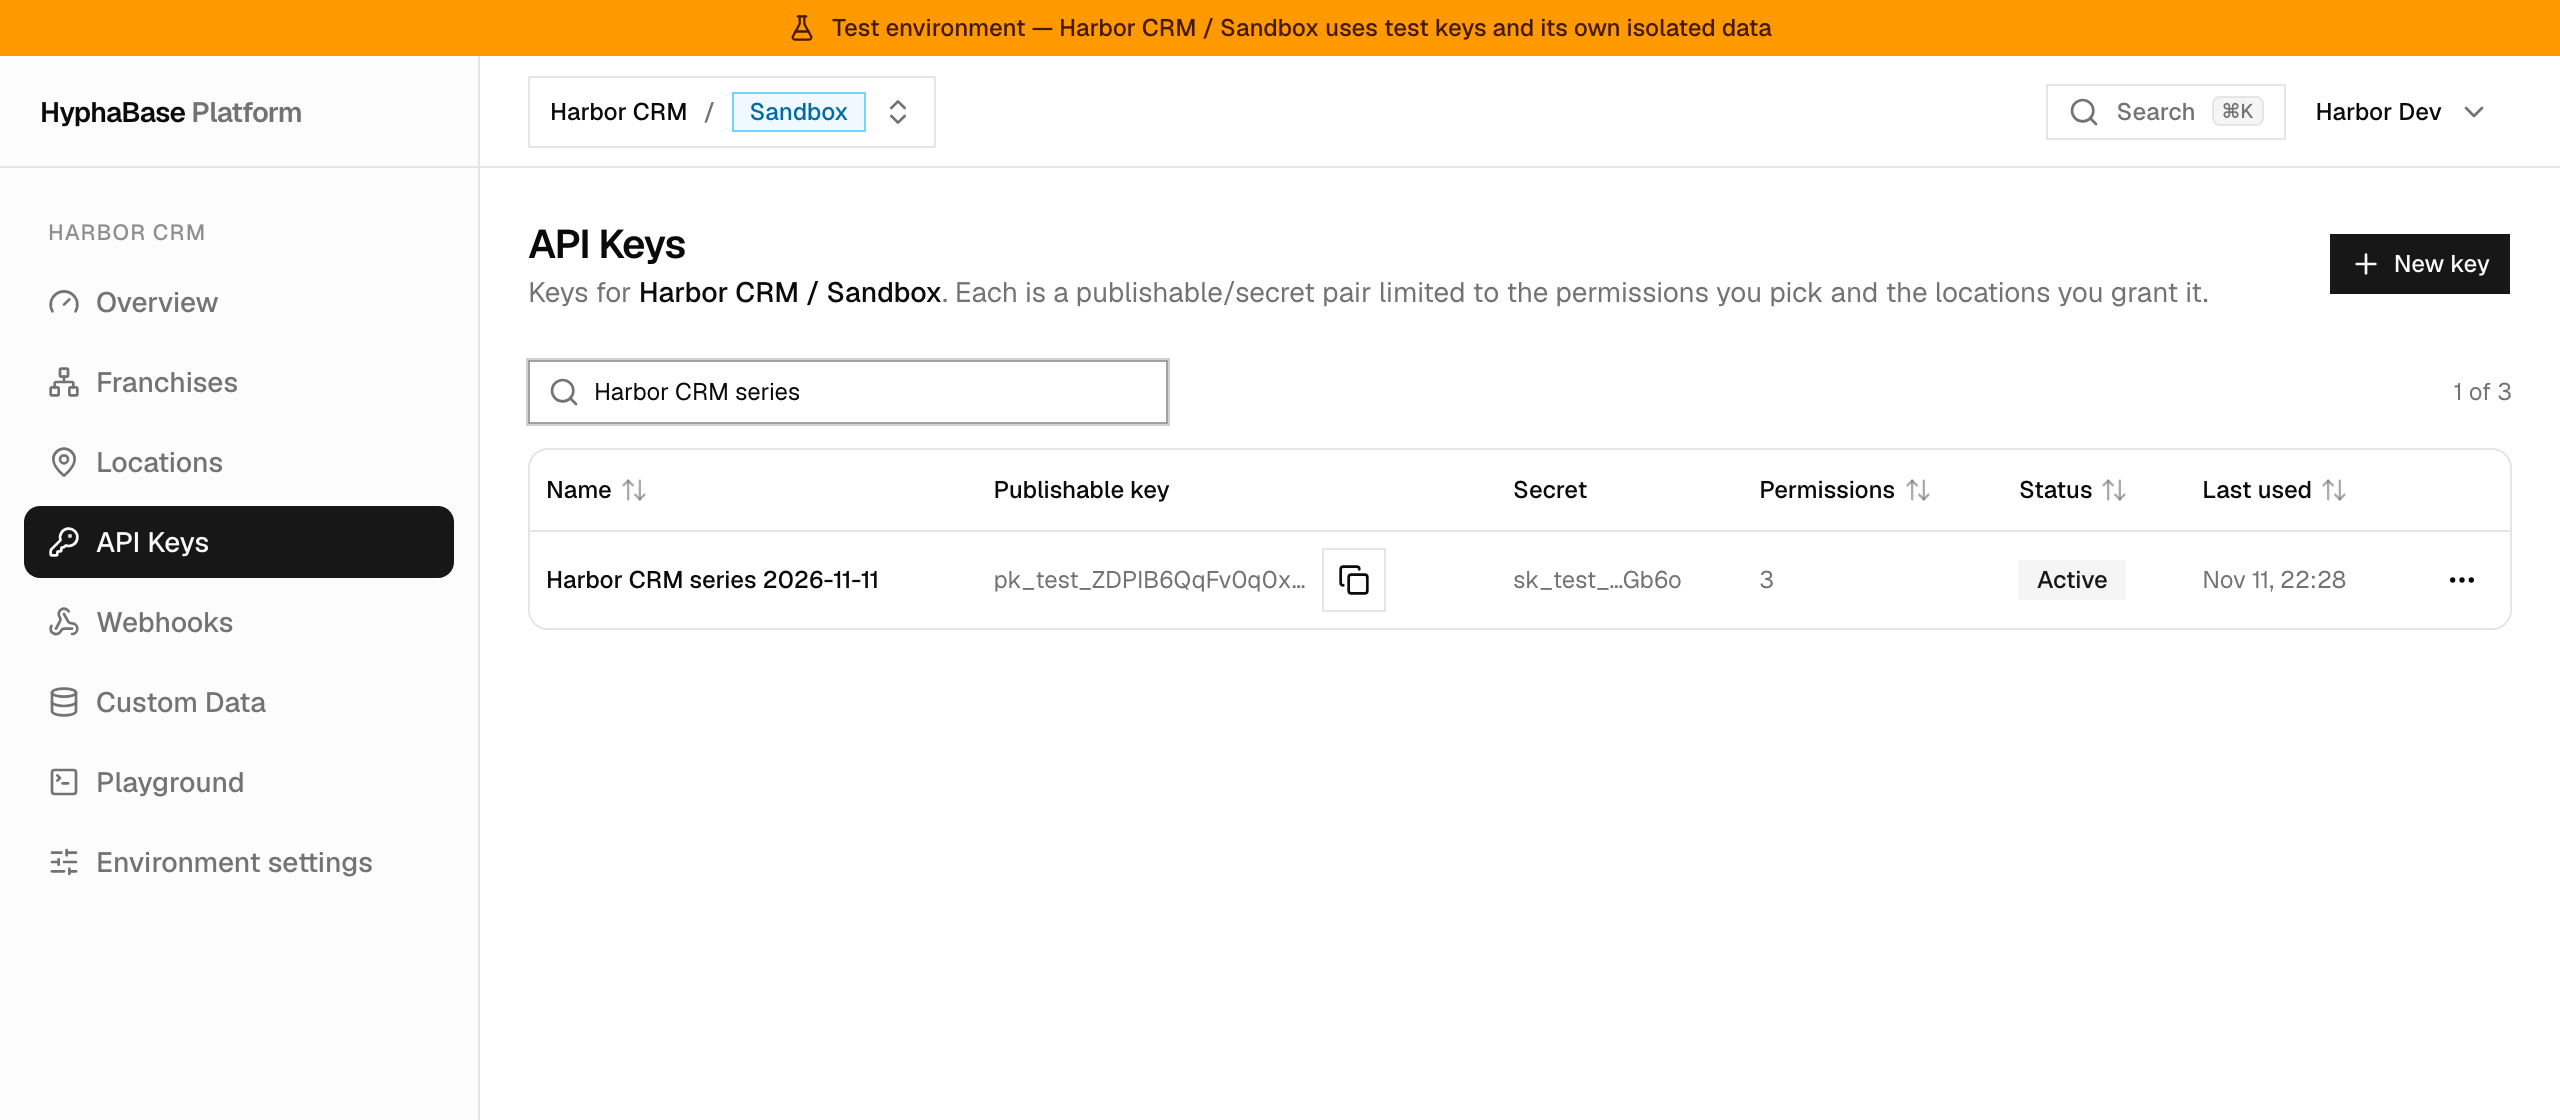
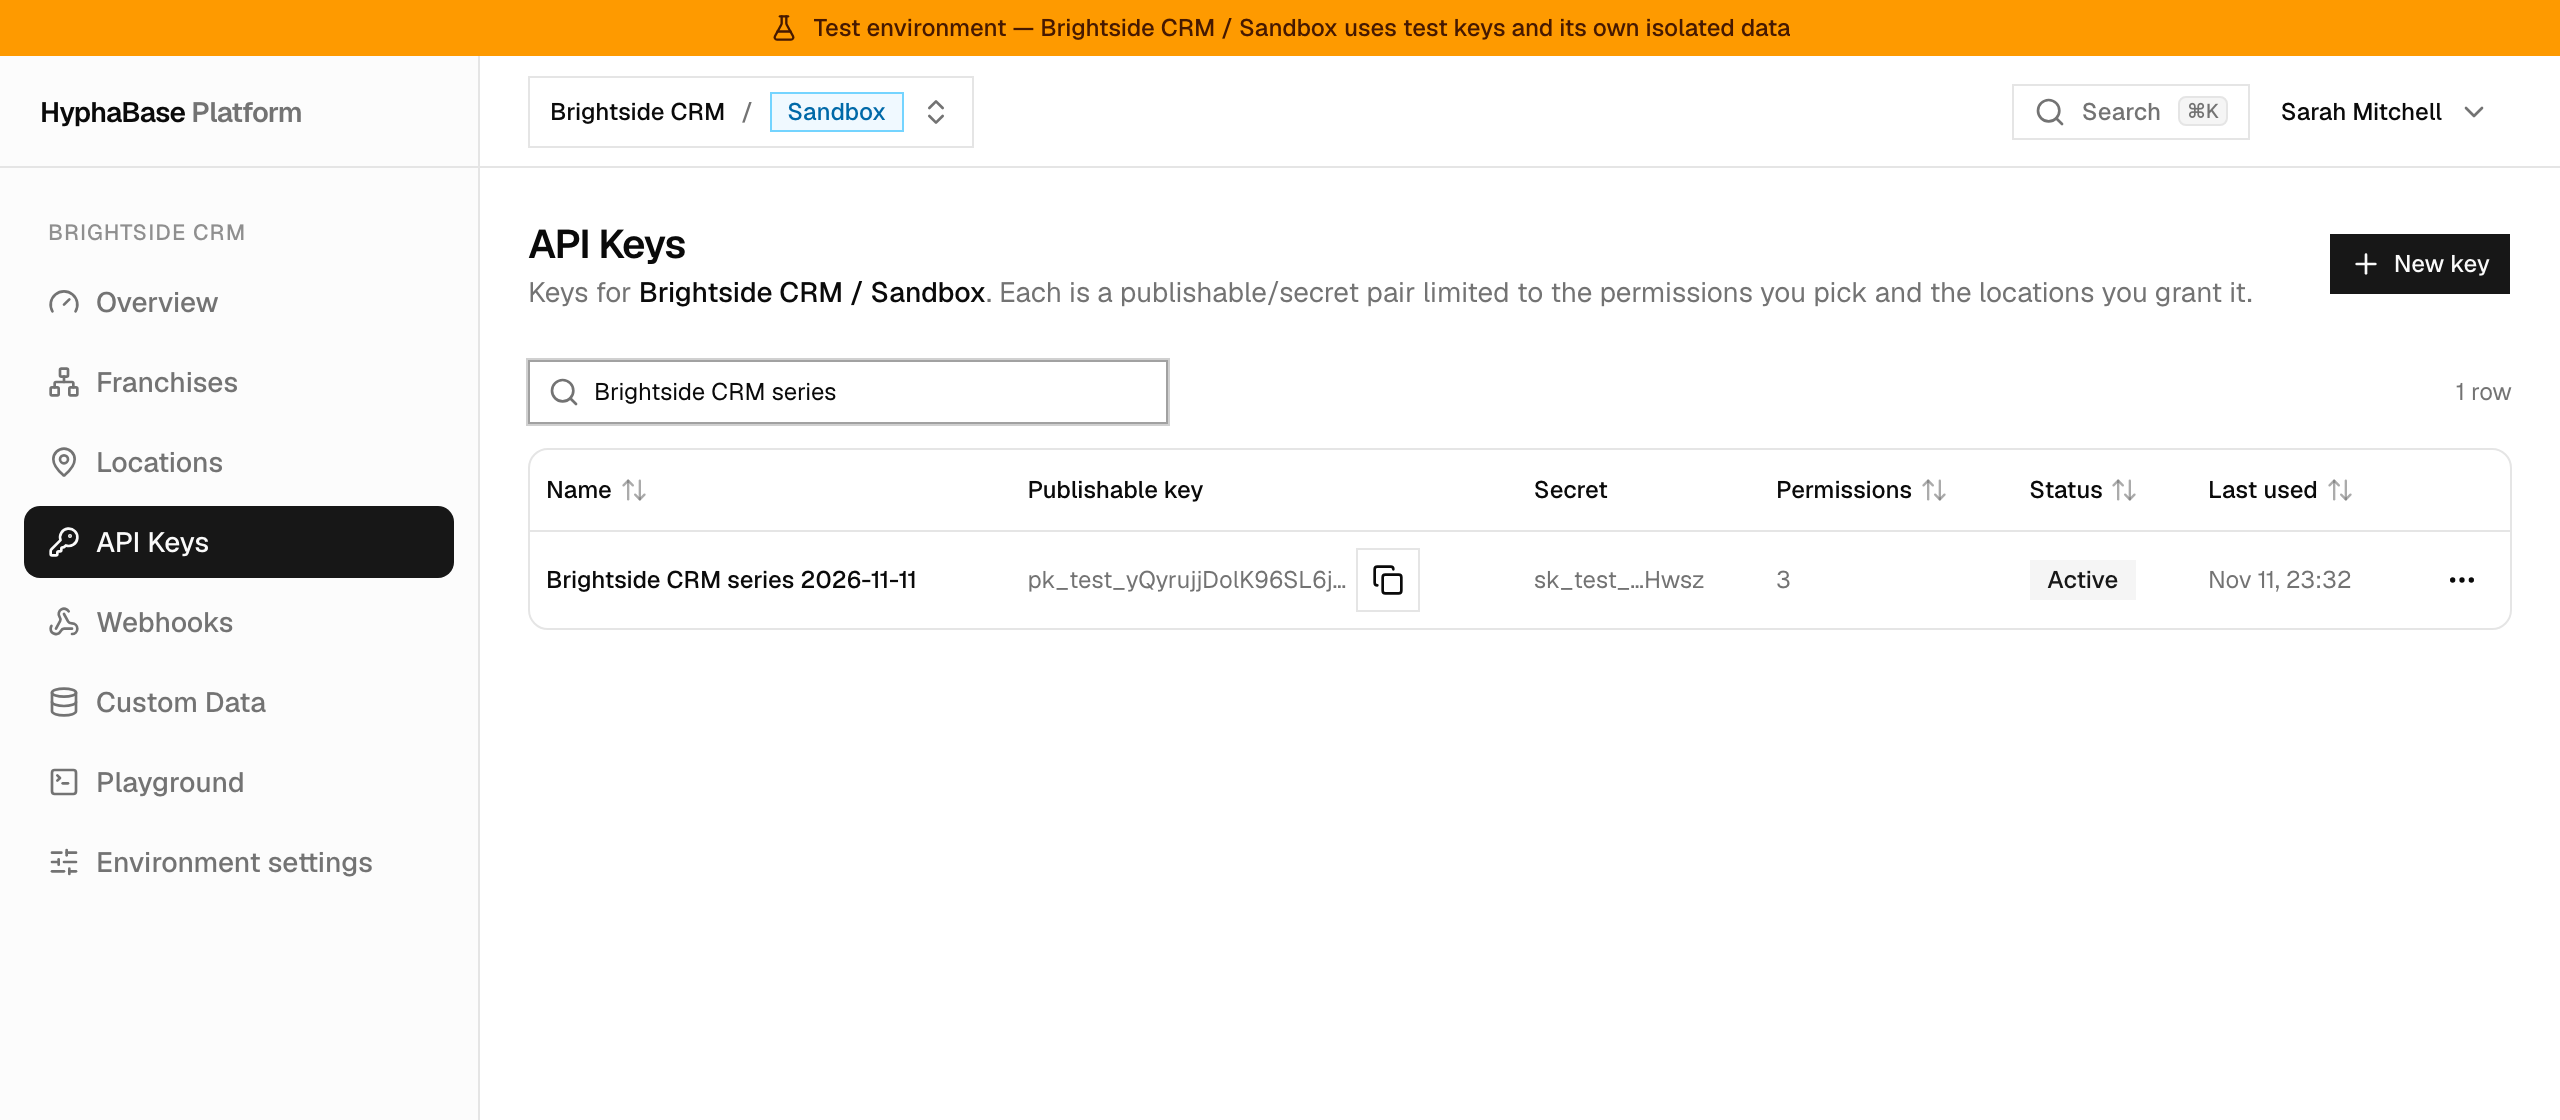
Rename the example app to Brightside CRM, a cleaning company's customer list
Matches the running example in the HyphaBase docs: Brightside Cleaning,
Portland location, first customer Dana Whitfield. Screenshots re-captured.

diff --git a/test/customers.test.js b/test/customers.test.js
@@ -36,7 +36,7 @@ test("ensureCustomersCollection leaves an existing collection alone", async () =
 });
 
 test("addCustomer posts a flat record to the customers collection", async () => {
-  const customer = { name: "Maya Chen", email: "maya.chen@example.com" };
+  const customer = { name: "Dana Whitfield", email: "dana@example.com" };
   const { api, calls } = apiWith({ status: 201, body: { data: { id: "c1", ...customer, status: "lead" } } });
 
   const created = await addCustomer(api, customer);
@@ -49,9 +49,9 @@ test("addCustomer posts a flat record to the customers collection", async () => 
 });
 
 test("getCustomer reads one record by id", async () => {
-  const { api, calls } = apiWith({ body: { data: { id: "c1", name: "Maya Chen" } } });
+  const { api, calls } = apiWith({ body: { data: { id: "c1", name: "Dana Whitfield" } } });
 
-  assert.equal((await getCustomer(api, "c1")).name, "Maya Chen");
+  assert.equal((await getCustomer(api, "c1")).name, "Dana Whitfield");
   assert.equal(calls[0].url, "http://api.test/api/modules/data/customers/records/c1");
 });
 

diff --git a/src/add-customer.js b/src/add-customer.js
@@ -14,8 +14,8 @@ import { run } from "./hyphabase.js";
 
 const { values } = parseArgs({
   options: {
-    name: { type: "string", default: "Maya Chen" },
-    email: { type: "string", default: "maya.chen@example.com" },
+    name: { type: "string", default: "Dana Whitfield" },
+    email: { type: "string", default: "dana@example.com" },
     phone: { type: "string", default: "555-0142" },
     status: { type: "string" },
   },

diff --git a/README.md b/README.md
@@ -1,6 +1,6 @@
 # Build a CRM with HyphaBase
 
-The example app from the **Build a CRM with HyphaBase** series. One small CRM, built one feature at a time on a [HyphaBase](https://hyphabase.com) backend. Each episode ends at a tagged commit you can check out and run.
+The example app from the **Build a CRM with HyphaBase** series. One small CRM, built one feature at a time on a [HyphaBase](https://hyphabase.com) backend. The app is **Brightside CRM**: the customer list for Brightside Cleaning, a home cleaning company with a few hundred regulars and locations in Portland and Salem. Each episode ends at a tagged commit you can check out and run.
 
 > **Status: pre-release.** The free sandbox is not open for signups yet, so you can read the code but not run it against your own backend today. [Get early access](https://hyphabase.com) and we'll email you when it opens.
 
@@ -43,8 +43,8 @@ Created customer f294a1f4-3625-49e3-a491-2e9ecc71769e
 Read it back from the API:
 {
   id: 'f294a1f4-3625-49e3-a491-2e9ecc71769e',
-  name: 'Maya Chen',
-  email: 'maya.chen@example.com',
+  name: 'Dana Whitfield',
+  email: 'dana@example.com',
   phone: '555-0142',
   status: 'lead',
   ...

diff --git a/episodes/episode-01-backend.md b/episodes/episode-01-backend.md
@@ -6,14 +6,14 @@ This episode happens in the HyphaBase console, so it has no code and no tag in t
 
 ## Steps
 
-1. Create your account and your app. The series calls the app **Harbor CRM**.
+1. Create your account and your app. The series calls the app **Brightside CRM**.
 
-   ![The Applications page listing Harbor CRM with its Sandbox environment](img/episode-01/01-application.png)
+   ![The Applications page listing Brightside CRM with its Sandbox environment](img/episode-01/01-application.png)
 
-2. Add a location. The series calls it **Main Office**.
+2. Add a location. The series calls it **Portland**.
 3. Wait for provisioning to finish. The location gets its own database.
 
-   ![The Locations page showing Main Office with provisioning "ready"](img/episode-01/02-location-ready.png)
+   ![The Locations page showing Portland with provisioning "ready"](img/episode-01/02-location-ready.png)
 
 4. Create a secret API key for the app's sandbox environment. Episode 2 needs these scopes:
    - `data.collections.manage`

diff --git a/episodes/episode-02-customers.md b/episodes/episode-02-customers.md
@@ -55,7 +55,7 @@ Its **Schema** tab shows the fields exactly as the code defined them:
 
 After `npm run customer:add`, the first customer is in the **Records** tab:
 
-![The Customers records table showing Maya Chen as a lead](img/episode-02/03-first-customer.png)
+![The Customers records table showing Dana Whitfield as a lead](img/episode-02/03-first-customer.png)
 
 ## Things worth noticing
 
